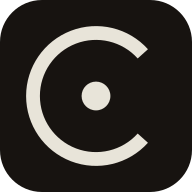
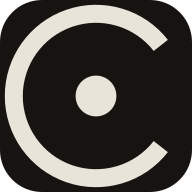
fix(cursor): hide the native pointer with a cursor image
`cursor: none` does not always re-hide the pointer after it returns
from the browser chrome, so the rule sets a 1x1 PNG cursor with `none`
as the fallback. The pre-paint class now gates on pointer:fine alone,
like cursor.ts, and the ring shows again on pointerenter. Also redraws
the favicon as a cut ring, transparent and theme-aware in tabs.

diff --git a/scripts/gen-favicon.ts b/scripts/gen-favicon.ts
@@ -1,20 +1,23 @@
 /**
- * The mark: an open ring (a C) with a separate dot at its centre. The ring is
- * a stroked arc, the dot a filled circle, and the clearance between them is
- * derived so it reads evenly at every size.
+ * The mark: a ring with a wedge cut out of it and a dot at the centre. The
+ * ring is a single closed path (outer arc, radial edge in, inner arc back,
+ * radial edge out) so the cut edges point at the centre. A stroked arc would
+ * end in line caps instead of cuts.
  *
- *          R      ring centreline radius
- *          W      ring stroke weight        → inner edge at R − W/2
- *          DOT    dot radius
- *          GAP    aperture, degrees, centred on +x, terminals cut radially
- *   clearance = (R − W/2) − DOT
+ *   RO   outer radius, full bleed in the 32 box
+ *   RI   inner radius   → band = RO − RI
+ *   DOT  dot radius     → clearance = RI − DOT
+ *   GAP  aperture in degrees, centred on +x
  *
- * Emits the full set, since PDFs, bookmarks and older browsers don't use an
- * SVG favicon:
- *   favicon.svg          modern browsers
- *   favicon.ico          16/32/48, PNG-in-ICO; the fallback for PDFs and tabs
- *   apple-touch-icon.png 180, iOS home screen
- *   icon-192/512.png     web app manifest
+ * Tab icons are transparent and edge-to-edge. A background tile would clash
+ * with the tab bar's theme, inset the glyph twice, and put four aliased
+ * corners on a 16px square. Only platforms that composite onto their own tile
+ * get one.
+ *
+ *   favicon.svg          modern browsers; theme-adaptive, transparent
+ *   favicon.ico          16/32/48; Safari, PDF viewers, bookmark bars
+ *   apple-touch-icon.png 180, iOS home screen; tiled (iOS paints alpha black)
+ *   icon-192/512.png     web app manifest; tiled
  *
  *   bun scripts/gen-favicon.ts
  */
@@ -22,34 +25,51 @@ import sharp from "sharp";
 
 const PAPER = "#171310";
 const INK = "#e8e4d9";
+const DAY_INK = "#221f1a";
 
-const R = 10.5;
-const W = 2.3;
-const DOT = 2.4;
-const GAP = 84;
-const RADIUS = 7; // tile corner rounding, in the 32 box
+const RO = 15.2; // outer radius, full bleed, no tile inset
+const RI = 12.2; // inner radius  → a 3.0 band
+const DOT = 3.4;
+const GAP = 76; // aperture, degrees, centred on +x
+const RADIUS = 7; // tile corner rounding, for the platforms that demand a tile
 
 const rad = (deg: number): number => (deg * Math.PI) / 180;
-const on = (deg: number): string =>
-	`${(16 + Math.cos(rad(deg)) * R).toFixed(4)} ${(16 + Math.sin(rad(deg)) * R).toFixed(4)}`;
+const at = (r: number, deg: number): string =>
+	`${(16 + Math.cos(rad(deg)) * r).toFixed(4)} ${(16 + Math.sin(rad(deg)) * r).toFixed(4)}`;
 
-// sweep the long way round, from the lower lip of the aperture to the upper
 const a0 = GAP / 2;
 const a1 = 360 - GAP / 2;
-const ring = `M ${on(a0)} A ${R} ${R} 0 ${a1 - a0 > 180 ? 1 : 0} 1 ${on(a1)}`;
+const big = a1 - a0 > 180 ? 1 : 0;
+const sector =
+	`M ${at(RO, a0)} A ${RO} ${RO} 0 ${big} 1 ${at(RO, a1)} ` +
+	`L ${at(RI, a1)} A ${RI} ${RI} 0 ${big} 0 ${at(RI, a0)} Z`;
 
-const mark = (bg: string, ink: string, rounded = true): string =>
-	`<rect width="32" height="32"${rounded ? ` rx="${RADIUS}"` : ""} fill="${bg}"/>` +
-	`<path d="${ring}" fill="none" stroke="${ink}" stroke-width="${W}" stroke-linecap="butt"/>` +
-	`<circle cx="16" cy="16" r="${DOT}" fill="${ink}"/>`;
+/** The mark alone, no background. */
+const glyph = (ink: string): string =>
+	`<path d="${sector}" fill="${ink}"/><circle cx="16" cy="16" r="${DOT}" fill="${ink}"/>`;
 
-const doc = (body: string): string =>
-	`<svg xmlns="http://www.w3.org/2000/svg" viewBox="0 0 32 32">\n${body}\n</svg>\n`;
+/** Tiled, for platforms that composite onto their own square regardless. */
+const tile = (bg: string, ink: string, rounded = true): string =>
+	`<rect width="32" height="32"${rounded ? ` rx="${RADIUS}"` : ""} fill="${bg}"/>${glyph(ink)}`;
 
-await Bun.write("apps/home/public/favicon.svg", doc(mark(PAPER, INK)));
+const doc = (body: string, style = ""): string =>
+	`<svg xmlns="http://www.w3.org/2000/svg" viewBox="0 0 32 32">${style}\n${body}\n</svg>\n`;
+
+/**
+ * The SVG carries its own theme switch. Browsers that prefer an SVG favicon
+ * honour prefers-color-scheme inside it, so the mark is warm black on a light
+ * tab bar and warm paper on a dark one, matching the site's ink inversion.
+ */
+const THEME_STYLE =
+	`\n<style>path,circle{fill:${DAY_INK}}` +
+	`@media(prefers-color-scheme:dark){path,circle{fill:${INK}}}</style>`;
+await Bun.write(
+	"apps/home/public/favicon.svg",
+	doc(`<path d="${sector}"/><circle cx="16" cy="16" r="${DOT}"/>`, THEME_STYLE),
+);
 
 const png = (size: number, body: string): Promise<Buffer> =>
-	sharp(Buffer.from(doc(body)), { density: 384 })
+	sharp(Buffer.from(doc(body)), { density: 512 })
 		.resize(size, size)
 		.png()
 		.toBuffer();
@@ -78,18 +98,26 @@ function ico(images: { size: number; data: Buffer }[]): Buffer {
 	return Buffer.concat([header, ...dir, ...images.map((i) => i.data)]);
 }
 
+/**
+ * The raster fallback can't adapt to the tab bar, so it uses the day ink: .ico
+ * is mostly shown on light chrome (Safari's light tab strip, PDF viewers,
+ * bookmark bars). Anything with a dark tab strip also supports the SVG above
+ * and uses that instead.
+ */
 const icoSizes = [16, 32, 48];
 const icoImages = await Promise.all(
-	icoSizes.map(async (size) => ({ size, data: await png(size, mark(PAPER, INK)) })),
+	icoSizes.map(async (size) => ({ size, data: await png(size, glyph(DAY_INK)) })),
 );
 await Bun.write("apps/home/public/favicon.ico", ico(icoImages));
 
-// iOS crops to its own shape and adds gloss on a square, so ship it unrounded
-await Bun.write("apps/home/public/apple-touch-icon.png", await png(180, mark(PAPER, INK, false)));
-await Bun.write("apps/home/public/icon-192.png", await png(192, mark(PAPER, INK)));
-await Bun.write("apps/home/public/icon-512.png", await png(512, mark(PAPER, INK)));
+// iOS crops to its own shape and paints alpha black, so ship it tiled and unrounded
+await Bun.write("apps/home/public/apple-touch-icon.png", await png(180, tile(PAPER, INK, false)));
+await Bun.write("apps/home/public/icon-192.png", await png(192, tile(PAPER, INK)));
+await Bun.write("apps/home/public/icon-512.png", await png(512, tile(PAPER, INK)));
 
 // biome-ignore lint/suspicious/noConsole: CLI output
 console.log(
-	`wrote favicon.svg + .ico(${icoSizes.join("/")}) + apple-touch-icon + 192/512 — R=${R} W=${W} dot=${DOT} clearance=${(R - W / 2 - DOT).toFixed(2)}`,
+	`wrote favicon.svg (theme-adaptive, transparent) + .ico(${icoSizes.join("/")}) + ` +
+		`apple-touch + 192/512 — band ${(RO - RI).toFixed(1)}, dot ${DOT}, ` +
+		`clearance ${(RI - DOT).toFixed(2)}, aperture ${GAP}°`,
 );

diff --git a/apps/home/src/styles/global.css b/apps/home/src/styles/global.css
@@ -168,13 +168,28 @@ main {
 	outline-offset: 3px;
 }
 
-/* Hide the native cursor everywhere; the ring replaces it. Low-specificity
-   so nothing needs !important. html itself has to carry cursor:none: the
-   ::view-transition overlay inherits from the root, so without it every
-   navigation flashes the native arrow. */
+/* Hide the native cursor everywhere; the ring replaces it. `html` itself has
+   to carry this: the ::view-transition overlay inherits `cursor` from the
+   root, so without it every navigation flashes the native arrow.
+
+   Uses a transparent image rather than `cursor: none`. Chrome and Safari both
+   fail to re-hide the pointer when it returns from the browser's own chrome,
+   and on GPU-composited layers the hardware cursor can survive `none`
+   entirely, leaving the native arrow on top of the ring even across reloads.
+   A 1×1 transparent PNG is a real cursor image, so it gets drawn and paints
+   nothing. `none` stays as the fallback for anything that refuses the image.
+
+   The selector is written out rather than wrapped in `:where()`, whose zero
+   specificity would lose to any `cursor` rule a dependency adds. No other rule
+   sets `cursor` today, so `!important` isn't needed. */
 html.no-native-cursor,
-html.no-native-cursor :where(*, *::before, *::after) {
-	cursor: none;
+html.no-native-cursor *,
+html.no-native-cursor *::before,
+html.no-native-cursor *::after {
+	cursor:
[1 lines of base64/hex data omitted]
+		0 0,
+		none;
 }
 
 #cursor {

diff --git a/apps/home/src/cursor.ts b/apps/home/src/cursor.ts
@@ -128,9 +128,23 @@ export function initCursor(clock: Clock): void {
 	});
 	document.addEventListener("pointerdown", () => ring.classList.add("press"));
 	document.addEventListener("pointerup", () => ring.classList.remove("press"));
-	document.documentElement.addEventListener("pointerleave", () => {
+	const root = document.documentElement;
+	root.addEventListener("pointerleave", () => {
 		shown = false;
 		ring.classList.remove("on");
+	});
+
+	/**
+	 * Returning from the browser's own chrome does not always produce a
+	 * pointermove, so the ring would stay hidden until the pointer moved.
+	 * (The stylesheet hides the native cursor with a transparent cursor image,
+	 * not `cursor: none`; see global.css. Don't touch `style.cursor` here, it
+	 * would override that.)
+	 */
+	root.addEventListener("pointerenter", () => {
+		if (shown) return;
+		shown = true;
+		ring.classList.add("on");
 	});
 
 	if (reduced) {
